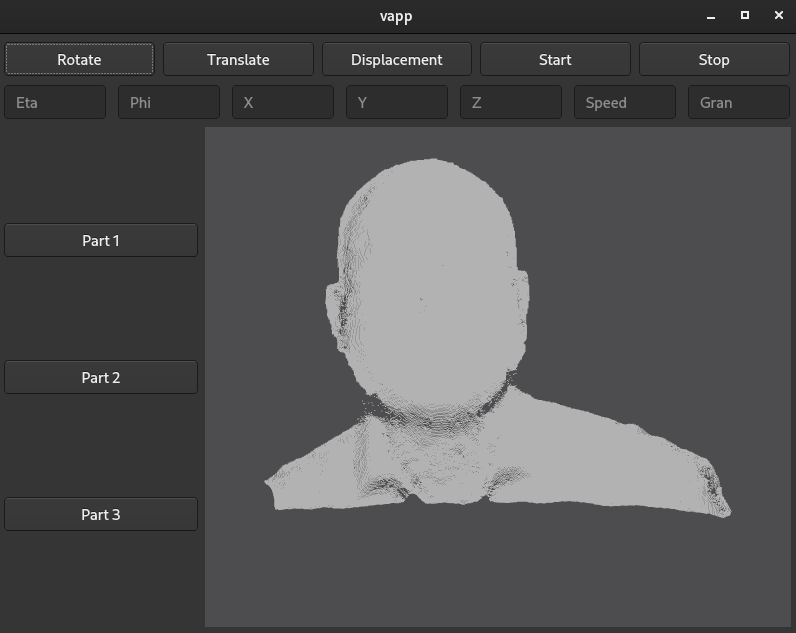
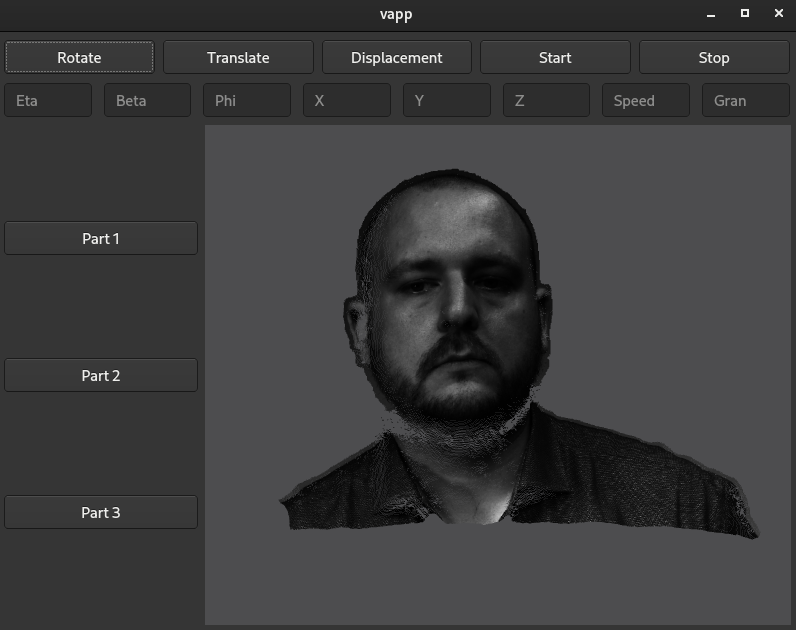
Color per vertex

diff --git a/Visualization/QtManager/src/QtManager.cpp b/Visualization/QtManager/src/QtManager.cpp
@@ -215,7 +215,7 @@ void QtManager::onClick(std::string func) {
         b_part3 = false;
      }
      else if (func == "Part 2") {
-        m_config->createCloud(20000, m_sphere_volume, m_config->boundMin(), m_config->boundMax());
+        m_config->createCloud(50000, m_sphere_volume, m_config->boundMin(), m_config->boundMax());
         m_cloudEntity.reset(createPointCloud());
         updatePoints([this](const size_t& idx) -> void { return m_algoBase->base(idx); });
         setCamera(QVector3D(0, 0.0, m_config->boundMin() * 6.0), QVector3D(0, 0, 0));
@@ -251,14 +251,13 @@ void QtManager::onClick(std::string func) {
 
 Qt3DCore::QEntity* QtManager::createPointCloud() {
 
-    m_material = new Qt3DExtras::QPhongMaterial(m_rootEntity.get());
-    m_material->setAmbient(Qt::white);
+    m_material = new Qt3DExtras::QPerVertexColorMaterial(m_rootEntity.get());
 
     m_geometry = new Qt3DRender::QGeometry(m_rootEntity.get());
 
     m_vertexBuffer = new Qt3DRender::QBuffer();
 
-    m_positionAttribute = new Qt3DRender::QAttribute();
+    m_positionAttribute = new Qt3DRender::QAttribute(nullptr);
     m_positionAttribute->setName(Qt3DRender::QAttribute::defaultPositionAttributeName());
     m_positionAttribute->setVertexBaseType(Qt3DRender::QAttribute::Float);
     m_positionAttribute->setVertexSize(3);
@@ -268,7 +267,7 @@ Qt3DCore::QEntity* QtManager::createPointCloud() {
     m_positionAttribute->setCount(m_config->getNVertex());
 
 
-    m_colorAttribute = new Qt3DRender::QAttribute();
+    m_colorAttribute = new Qt3DRender::QAttribute(nullptr);
     m_colorAttribute->setName(Qt3DRender::QAttribute::defaultColorAttributeName());
     m_colorAttribute->setVertexBaseType(Qt3DRender::QAttribute::Float);
     m_colorAttribute->setVertexSize(3);
@@ -302,9 +301,9 @@ void QtManager::updateArray(size_t start, size_t end, algo a) {
         m_rawVertexArray[6*i+1] = m_config->getCloud()->at(i).y;
         m_rawVertexArray[6*i+2] = m_config->getCloud()->at(i).z;
         // Color (RGB normalized to 0-1 range)
-        m_rawVertexArray[6*i+3] = static_cast<float>(m_config->getCloud()->at(i).R) / 255.;
-        m_rawVertexArray[6*i+4] = static_cast<float>(m_config->getCloud()->at(i).G) / 255.;
-        m_rawVertexArray[6*i+5] = static_cast<float>(m_config->getCloud()->at(i).B) / 255.;
+        m_rawVertexArray[6*i+3] = m_config->getCloud()->at(i).R / 255.f;
+        m_rawVertexArray[6*i+4] = m_config->getCloud()->at(i).G / 255.f;
+        m_rawVertexArray[6*i+5] = m_config->getCloud()->at(i).B / 255.f;
     }
 }
 
@@ -336,7 +335,7 @@ void QtManager::updatePoints(algo a) {
             t.join();
         }
     }
-    
+
     m_config->resetCloudCordNext();
     m_vertexBuffer->setData(bufferBytes);
 }

diff --git a/Visualization/QtManager/QtManager/QtManager.h b/Visualization/QtManager/QtManager/QtManager.h
@@ -10,6 +10,7 @@
 #include <Qt3DExtras/QTorusMesh>
 #include <Qt3DExtras/QPhongMaterial>
 #include <Qt3DExtras/QSphereMesh>
+#include <Qt3DExtras/QPerVertexColorMaterial>
 
 #include <Qt3DRender/QCamera>
 #include <Qt3DRender/QRenderSurfaceSelector>
@@ -83,7 +84,7 @@ private:
     Qt3DRender::QAttribute *m_colorAttribute;
     Qt3DRender::QGeometry *m_geometry;
     Qt3DRender::QGeometryRenderer *m_geometryRenderer;
-    Qt3DExtras::QPhongMaterial *m_material;
+    Qt3DExtras::QPerVertexColorMaterial *m_material;
 
     float *m_rawVertexArray;
     float m_sphere_volume;

diff --git a/App/main.cpp b/App/main.cpp
@@ -8,7 +8,7 @@ int main(int argc, char *argv[])
 {
 
     auto config = std::make_shared<Config>("test");
-    config->setNumberOfThreads(8);
+    config->setNumberOfThreads(32);
 
     if (!config->readFile(config->getLibDir()+"/Data/cloud.ply")) {
         std::cerr << "Can not read the file" << std::endl;

diff --git a/README.md b/README.md
@@ -14,7 +14,10 @@ vapp
 
 Screenshot:
 
+Ex. part-1
 <img src="pics/vapp.png" width="50%" height="50%">
 
+Ex. part-2
+<img src="pics/vapp.png" width="50%" height="50%">
 
 @ Anil Sonay
